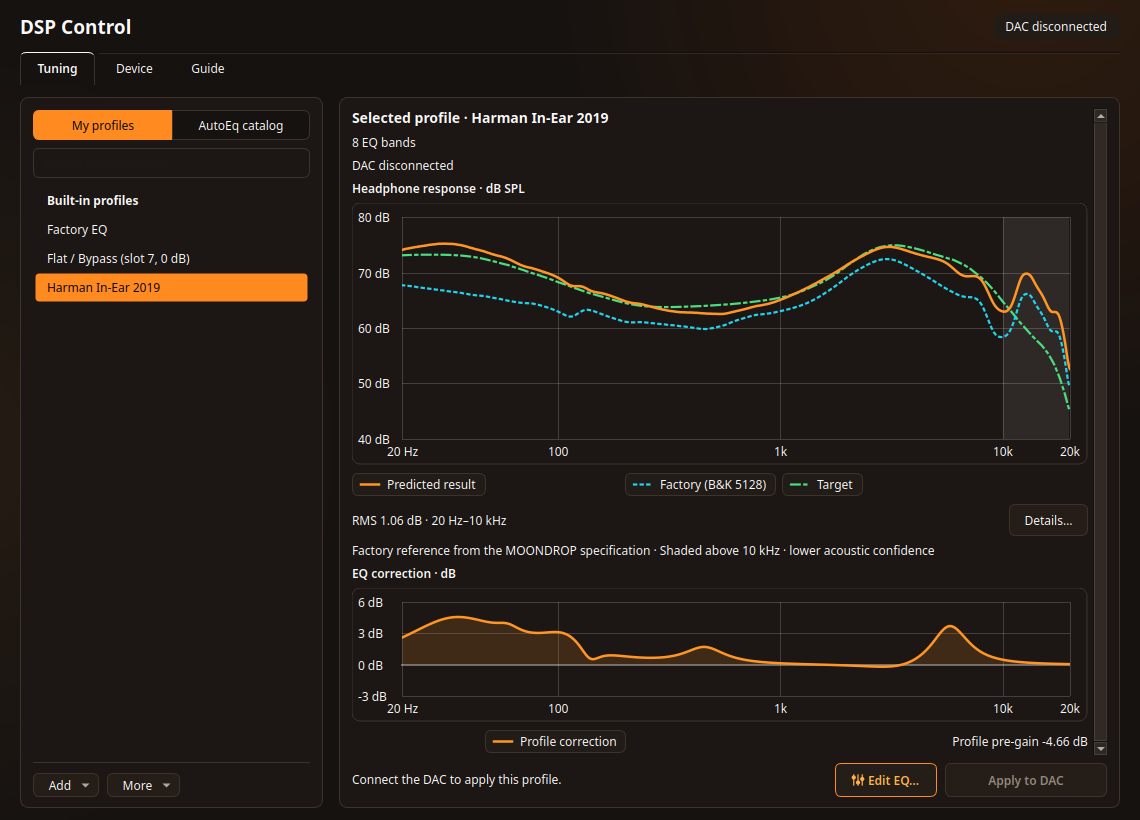
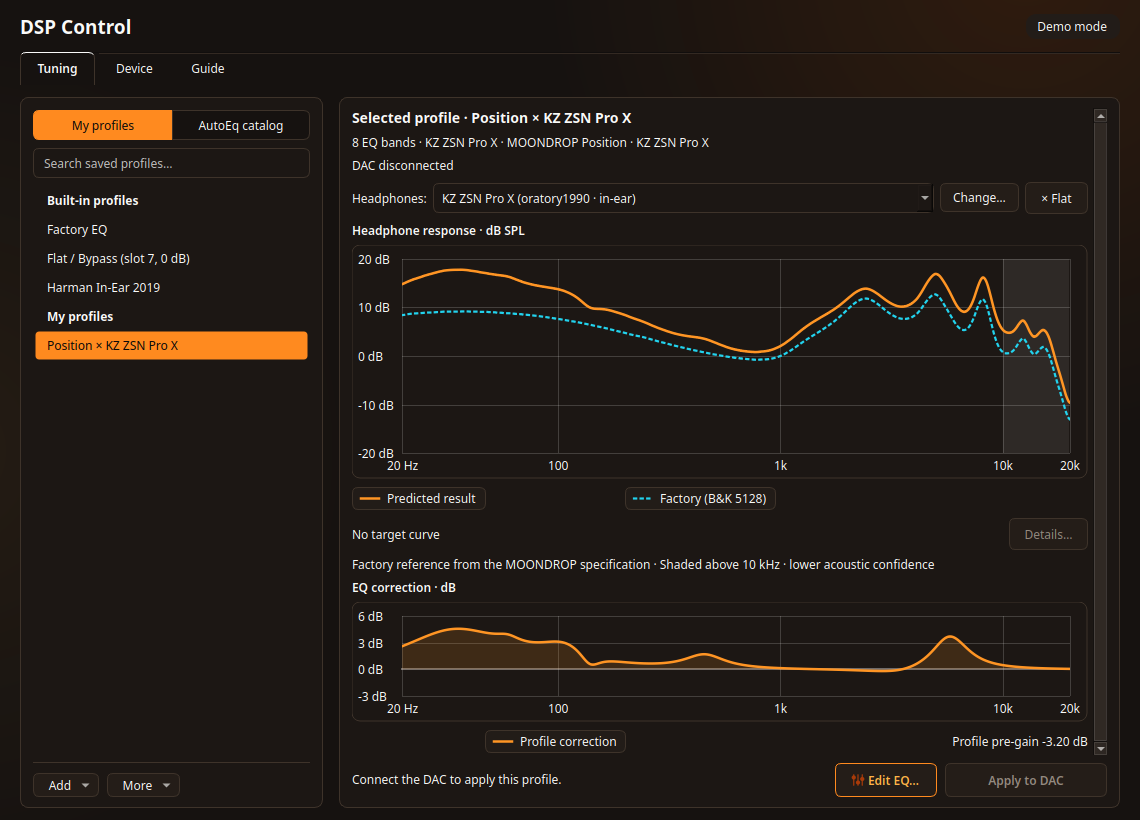
docs: showcase Position DAC paired with KZ ZSN Pro X in screenshots and README

diff --git a/README.pl.md b/README.pl.md
@@ -11,7 +11,7 @@
 
 [Obsługiwany sprzęt](#obsługiwany-sprzęt) · [Szybki start](#szybki-start) · [Dlaczego DSP Control?](#dlaczego-wersja-dla-linuxa) · [Zrzuty ekranu](#zrzuty-ekranu) · [Dokumentacja](#dokumentacja-techniczna) · [Wsparcie](#wsparcie-dla-projektu)
 
-![Panel Strojenia DSP Control z wykresami charakterystyki słuchawek i korekcji EQ](docs/screenshots/pl/01-tuning-profiles.png)
+![Panel Strojenia DSP Control — MOONDROP:Gravity Position ze słuchawkami KZ ZSN Pro X](docs/screenshots/pl/01-tuning-profiles.png)
 
 ---
 
@@ -96,7 +96,7 @@ Manifest ([`pl.innovibe.DspControl.json`](pl.innovibe.DspControl.json)) używa `
 
 - **Sprzętowe DSP, zero obciążenia CPU:** Korektor parametryczny działa bezpośrednio na układzie DAC-a (`< 5 ms` opóźnienia) i pozostaje aktywny w grach (Steam/Proton, natywne), na Discordzie i w odtwarzaczach — nawet po zamknięciu aplikacji.
 - **Odblokowane filtry półkowe `LSQ` i `HSQ`:** Podczas gdy `hub.moondroplab.tech` wyłącza półki dla Position (`PK / LP / HP`), DSP Control odblokowuje sprzętowe `LSQ` i `HSQ` (potwierdzone na firmware `0.5`). AutoEq domyślnie używa układu `1× LSQ + 1× HSQ + 6× PK`, zmniejszając błąd dopasowania Harman In-Ear 2019 z `2,20 dB` do `0,47 dB` RMS.
-- **Krzywe, profile i wybór słuchawek per DAC:** Każdy model korzysta z modularnej definicji w [`data/devices/`](data/devices/README.md) (liczba pasm, próbkowanie, typy filtrów, krzywa bazowa), filtruje listę *Moje profile* do podpiętego DAC-a i pozwala wybrać dowolne słuchawki z katalogu AutoEq (np. `KZ ZSN Pro X`), własny plik CSV/TXT lub tryb **Flat**.
+- **Dowolny DAC × dowolne słuchawki (nie tylko MOONDROP):** Używaj DAC-a z kompletu (jak **MOONDROP:Gravity Position** lub **CHU II DSP**) albo samodzielnego dongla (**ECHO-A**) z **dowolnymi słuchawkami** — np. **KZ ZSN Pro X**, Sennheiser czy własnym modelem — wybierając krzywą z katalogu 6800+ modeli AutoEq, lokalny plik CSV/TXT lub tryb **Flat**. Każdy DAC korzysta z modularnej definicji w [`data/devices/`](data/devices/README.md) i filtruje listę *Moje profile* pod aktywne urządzenie.
 - **Bezpieczna praca offline:** Przeglądanie, obliczenia AutoEq i zapis profili na dysku są oddzielone od pamięci flash DAC-a. Każde wgranie wykonuje weryfikację przed/po zapisie, a odsłuch na żywo automatycznie przywraca poprzedni stan po anulowaniu.
 - **Zasobnik systemowy i kontrola PipeWire:** Przełączaj profile dwoma kliknięciami z traya, sprawdzaj aktywną głębię bitową ALSA i wymuszaj próbkowanie PipeWire (`44,1–384 kHz`).
 

diff --git a/README.md b/README.md
@@ -11,7 +11,7 @@
 
 [Supported Hardware](#supported-hardware) · [Quick Start](#quick-start) · [Why DSP Control?](#why-use-the-native-linux-app) · [Screenshots](#screenshots) · [Docs](#technical-documentation) · [Support](#support-the-project)
 
-![DSP Control Tuning panel with headphone response and EQ correction plots](docs/screenshots/01-tuning-profiles.png)
+![DSP Control Tuning panel showing MOONDROP:Gravity Position paired with KZ ZSN Pro X headphones](docs/screenshots/01-tuning-profiles.png)
 
 ---
 
@@ -96,7 +96,7 @@ The manifest ([`pl.innovibe.DspControl.json`](pl.innovibe.DspControl.json)) requ
 
 - **Hardware DSP, Zero CPU Load:** Parametric EQ runs directly on the DAC chip (`< 5 ms` latency) and stays active across Steam/Proton games, Discord, and media players — even after closing the app or moving to another PC.
 - **Unlocks `LSQ` & `HSQ` Shelf Filters:** While `hub.moondroplab.tech` disables shelf filters for Position (`PK / LP / HP` only), DSP Control unlocks hardware `LSQ` and `HSQ` shelves verified on firmware `0.5`. AutoEq defaults to `1× LSQ + 1× HSQ + 6× PK`, dropping Harman In-Ear 2019 RMS error from `2.20 dB` down to `0.47 dB`.
-- **Per-DAC Curves, Profiles & Connected Headphones:** Each DAC model loads its own modular definition under [`data/devices/`](data/devices/README.md) (bands, sample rate, filter types, baseline curve), filters *My Profiles* to the active DAC, and lets you select any connected headphones from the AutoEq catalog (e.g. `KZ ZSN Pro X`), a local CSV/TXT curve, or **Flat** mode on detachable/standalone DACs.
+- **Any DAC × Any Headphones (Not Just MOONDROP):** Use a bundled/detachable DAC (like **MOONDROP:Gravity Position** or **CHU II DSP**) or a standalone dongle (**ECHO-A**) with **any headphones or IEMs** — e.g. **KZ ZSN Pro X**, Sennheiser, or custom models — by picking from the 6,800+ AutoEq catalog, loading a local CSV/TXT curve, or choosing **Flat** mode. Each DAC model loads its own modular definition under [`data/devices/`](data/devices/README.md) and filters *My Profiles* to the active DAC.
 - **Safe Offline Workflow:** Browsing, AutoEq fitting, and local profile storage are completely separated from DAC flash. Every write performs pre/post-flash verification, and live preview automatically restores your previous DAC state if you cancel.
 - **System Tray & PipeWire Control:** Minimize to the tray to switch profiles in two clicks, check active ALSA bit depth, and optionally force the PipeWire sample rate (`44.1–384 kHz`).
 
